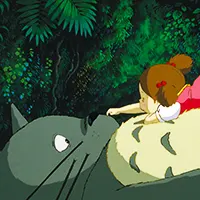
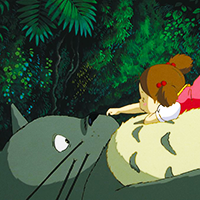
cambio a webp

diff --git a/components/GameDisplay.js b/components/GameDisplay.js
@@ -98,7 +98,7 @@ const GameDisplay = (data) => {
 
     let backCard = document.createElement('img');
     backCard.className = 'backCard';
-    backCard.src = 'images/backcard.png';
+    backCard.src = 'images/backcard.webp';
     card.appendChild(backCard);
 
     let frontCard = document.createElement('img');

diff --git a/index.html b/index.html
@@ -3,7 +3,7 @@
 
 <head>
   <meta charset="utf-8" name="viewport" content="width=device-width, initial-scale=1">
-  <title>Memory Match</title>
+  <title>Makkuro Memo</title>
   <link rel="stylesheet" href="style.css" />
   <link rel="stylesheet" href="stylemediaquery.css" />
 </head>

diff --git a/style.css b/style.css
@@ -23,7 +23,7 @@ body{
 }
 
 .header{
-    background-image: url(./images/title.png); 
+    background-image: url(./images/title.webp); 
     width: 486px;
     height: 150px;
     background-repeat: no-repeat;
